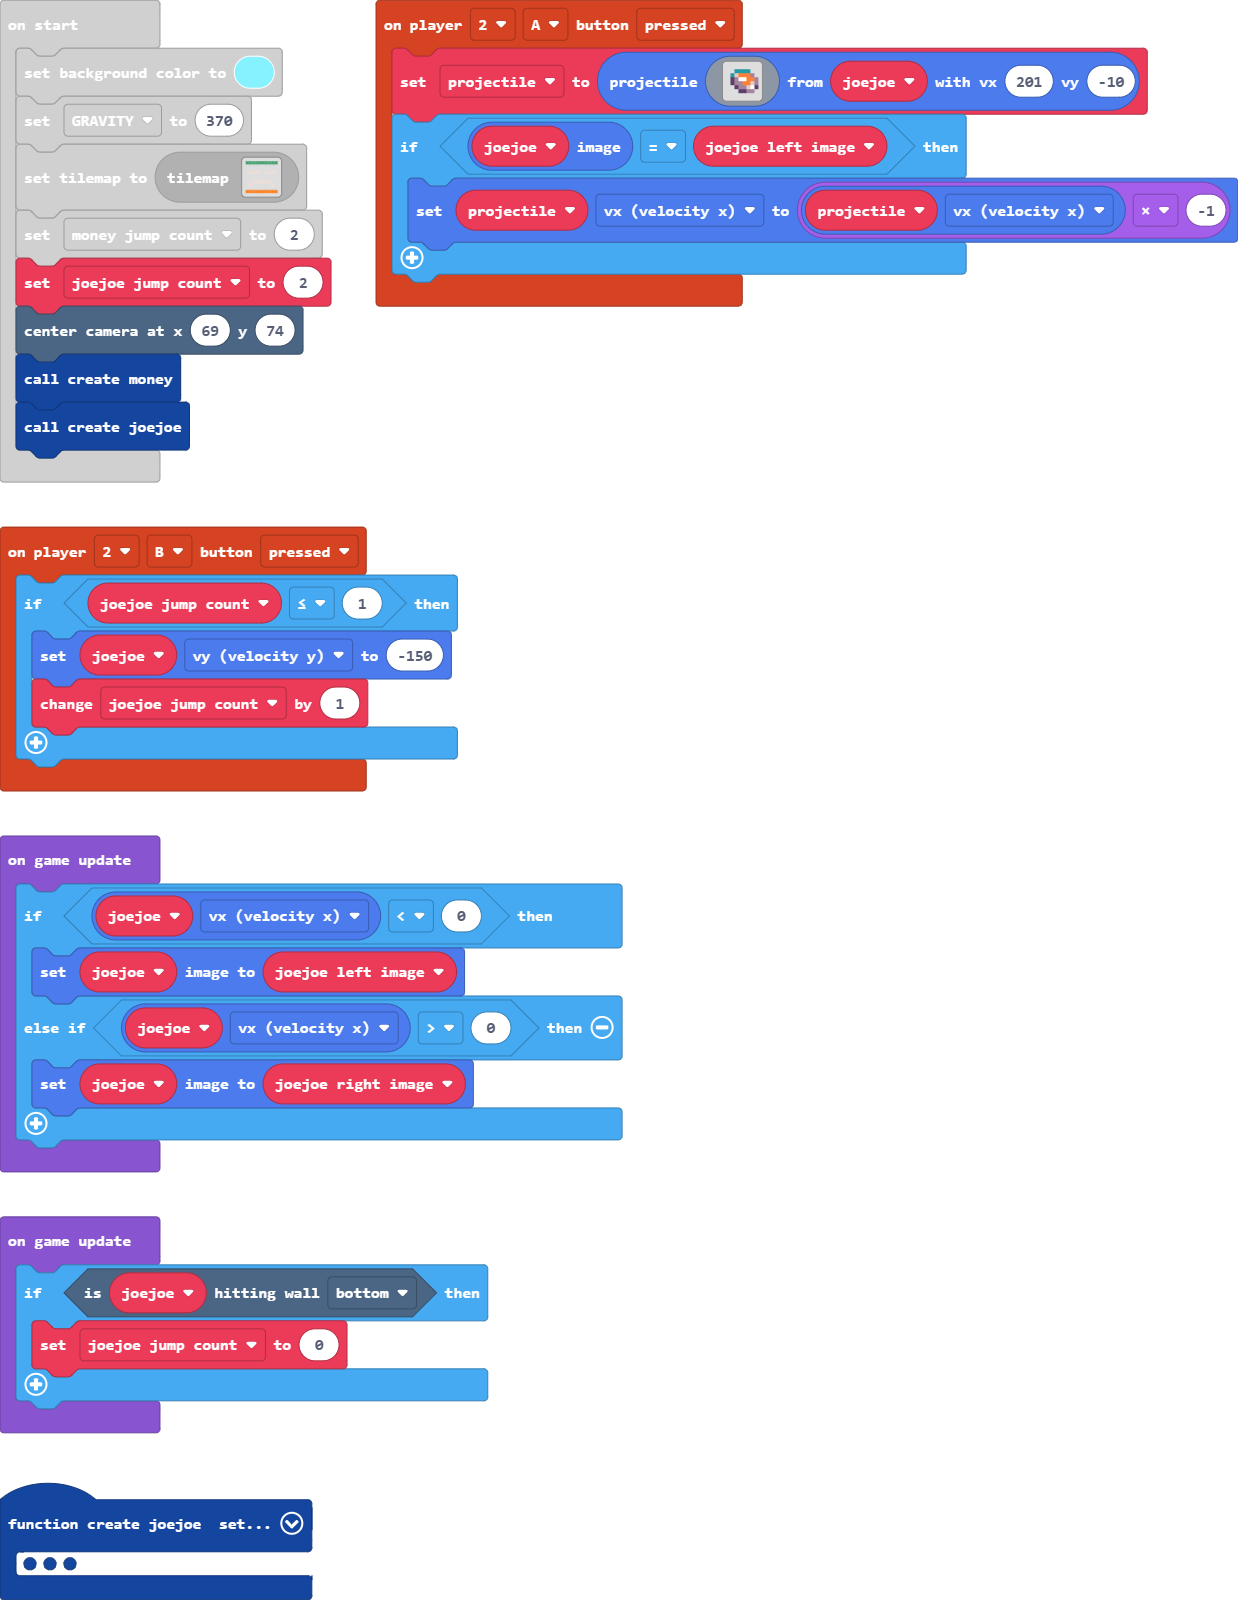
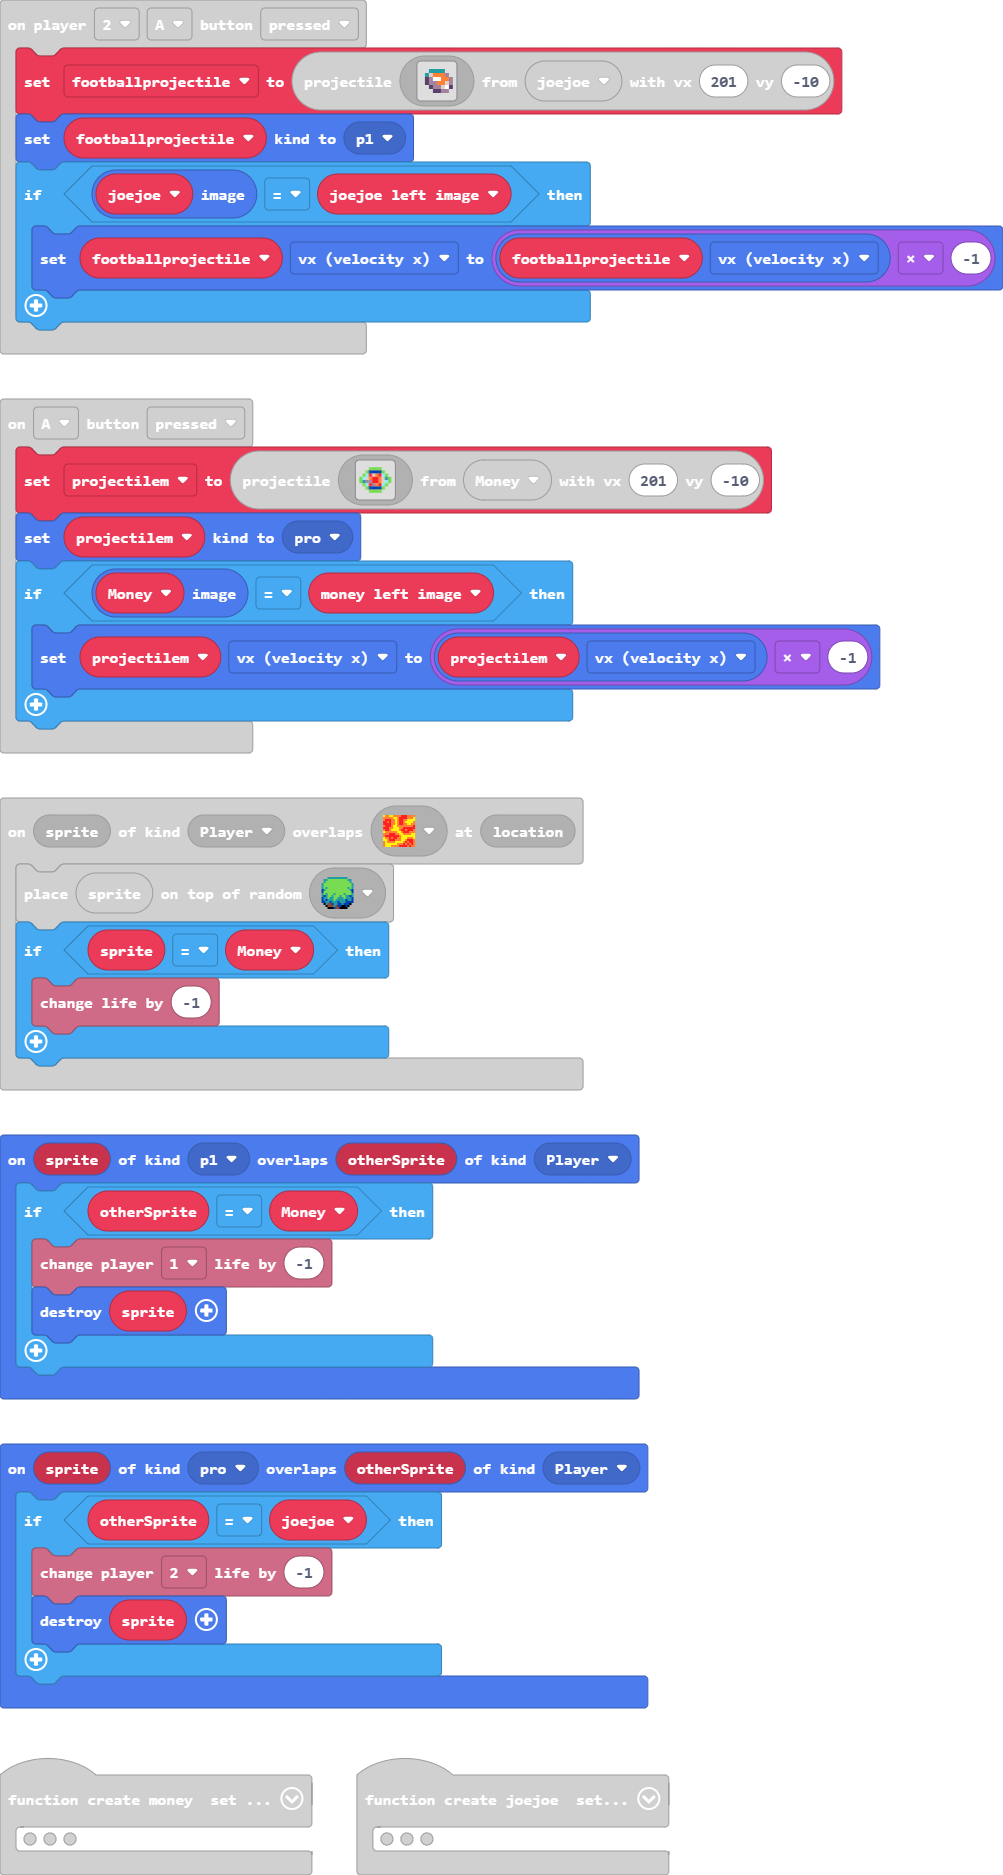
attack

diff --git a/main.ts b/main.ts
@@ -1,5 +1,12 @@
+namespace SpriteKind {
+    export const p1 = SpriteKind.create()
+    export const pro = SpriteKind.create()
+}
 scene.onOverlapTile(SpriteKind.Player, assets.tile`myTile0`, function (sprite, location) {
     tiles.placeOnRandomTile(sprite, sprites.builtin.forestTiles0)
+    if (sprite == Money) {
+        info.changeLifeBy(-1)
+    }
 })
 controller.player2.onButtonEvent(ControllerButton.B, ControllerButtonEvent.Pressed, function () {
     if (joejoe_jump_count <= 1) {
@@ -14,7 +21,7 @@ controller.B.onEvent(ControllerButtonEvent.Pressed, function () {
     }
 })
 controller.A.onEvent(ControllerButtonEvent.Pressed, function () {
-    projectile = sprites.createProjectileFromSprite(img`
+    projectilem = sprites.createProjectileFromSprite(img`
         . . . . . . . . . . 
         . . . 7 7 7 7 . . . 
         . . 7 8 8 8 8 7 . . 
@@ -26,12 +33,13 @@ controller.A.onEvent(ControllerButtonEvent.Pressed, function () {
         . . . 7 7 7 7 . . . 
         . . . . . . . . . . 
         `, Money, 201, -10)
+    projectilem.setKind(SpriteKind.pro)
     if (Money.image == money_left_image) {
-        projectile.vx = projectile.vx * -1
+        projectilem.vx = projectilem.vx * -1
     }
 })
 controller.player2.onButtonEvent(ControllerButton.A, ControllerButtonEvent.Pressed, function () {
-    projectile = sprites.createProjectileFromSprite(img`
+    footballprojectile = sprites.createProjectileFromSprite(img`
         . . 6 6 6 6 . . 
         . 6 d 4 4 4 b . 
         . c b 1 1 4 4 b 
@@ -39,8 +47,21 @@ controller.player2.onButtonEvent(ControllerButton.A, ControllerButtonEvent.Press
         . . c b b d 1 c 
         . . . c c b b . 
         `, joejoe, 201, -10)
+    footballprojectile.setKind(SpriteKind.p1)
     if (joejoe.image == joejoe_left_image) {
-        projectile.vx = projectile.vx * -1
+        footballprojectile.vx = footballprojectile.vx * -1
+    }
+})
+sprites.onOverlap(SpriteKind.pro, SpriteKind.Player, function (sprite, otherSprite) {
+    if (otherSprite == joejoe) {
+        info.player2.changeLifeBy(-1)
+        sprites.destroy(sprite)
+    }
+})
+sprites.onOverlap(SpriteKind.p1, SpriteKind.Player, function (sprite, otherSprite) {
+    if (otherSprite == Money) {
+        info.player1.changeLifeBy(-1)
+        sprites.destroy(sprite)
     }
 })
 function create_joejoe () {
@@ -67,6 +88,7 @@ function create_joejoe () {
     joejoe = sprites.create(joejoe_left_image, SpriteKind.Player)
     controller.player2.moveSprite(joejoe, 100, 0)
     joejoe.ay = GRAVITY
+    info.player2.setLife(71)
 }
 function create_money () {
     money_left_image = img`
@@ -92,14 +114,16 @@ function create_money () {
     Money = sprites.create(money_left_image, SpriteKind.Player)
     controller.moveSprite(Money, 100, 0)
     Money.ay = GRAVITY
+    info.setLife(71)
 }
 let money_right_image: Image = null
 let joejoe_right_image: Image = null
 let joejoe_left_image: Image = null
+let footballprojectile: Sprite = null
 let money_left_image: Image = null
-let projectile: Sprite = null
-let Money: Sprite = null
+let projectilem: Sprite = null
 let joejoe: Sprite = null
+let Money: Sprite = null
 let joejoe_jump_count = 0
 let money_jump_count = 0
 let GRAVITY = 0
